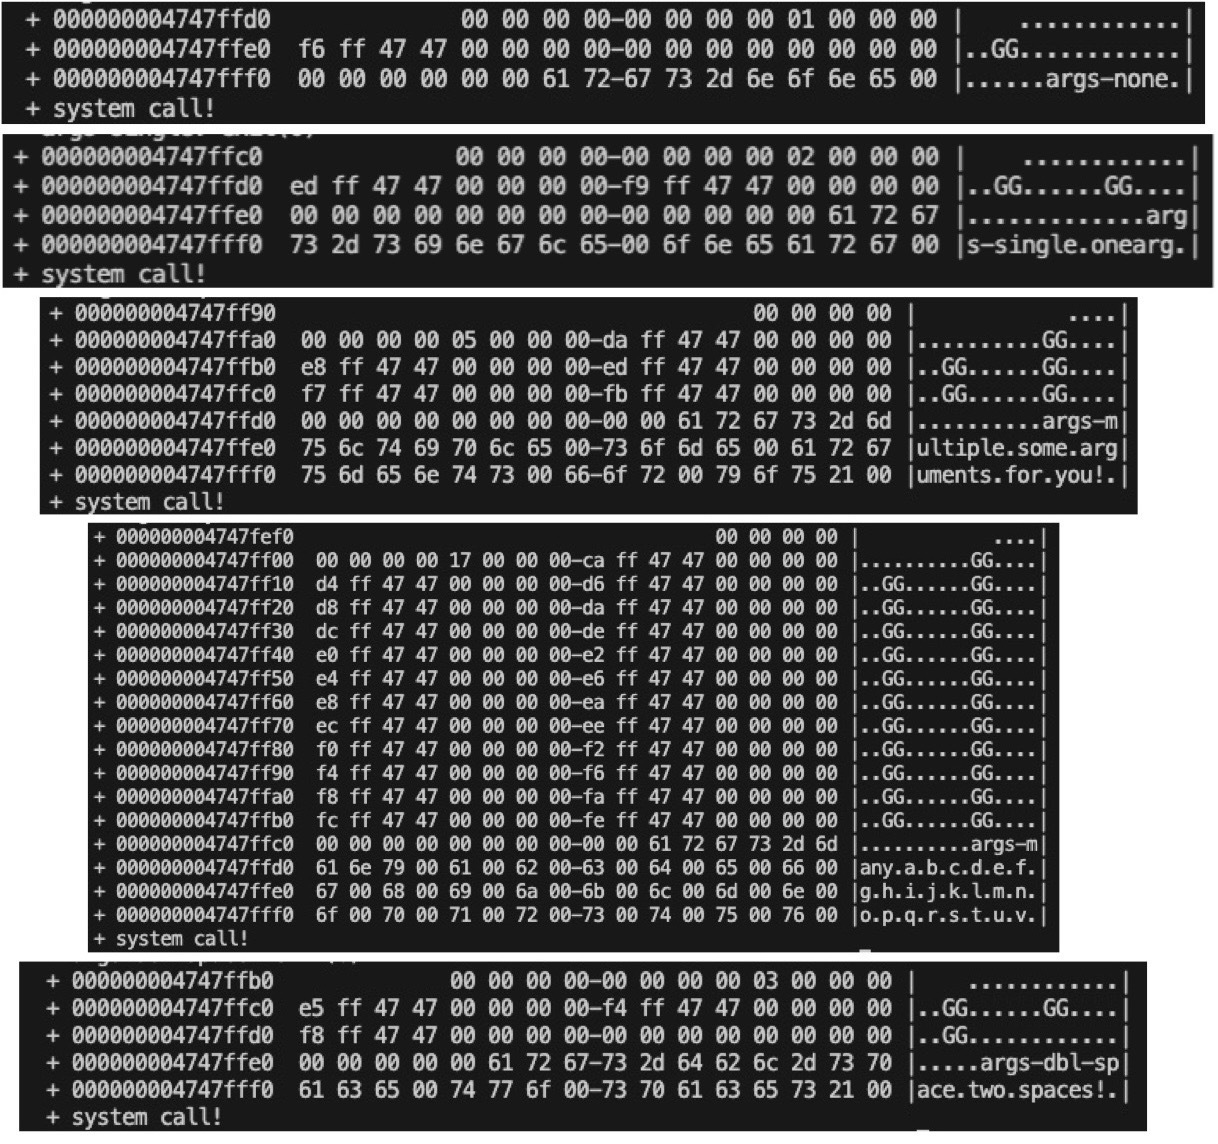
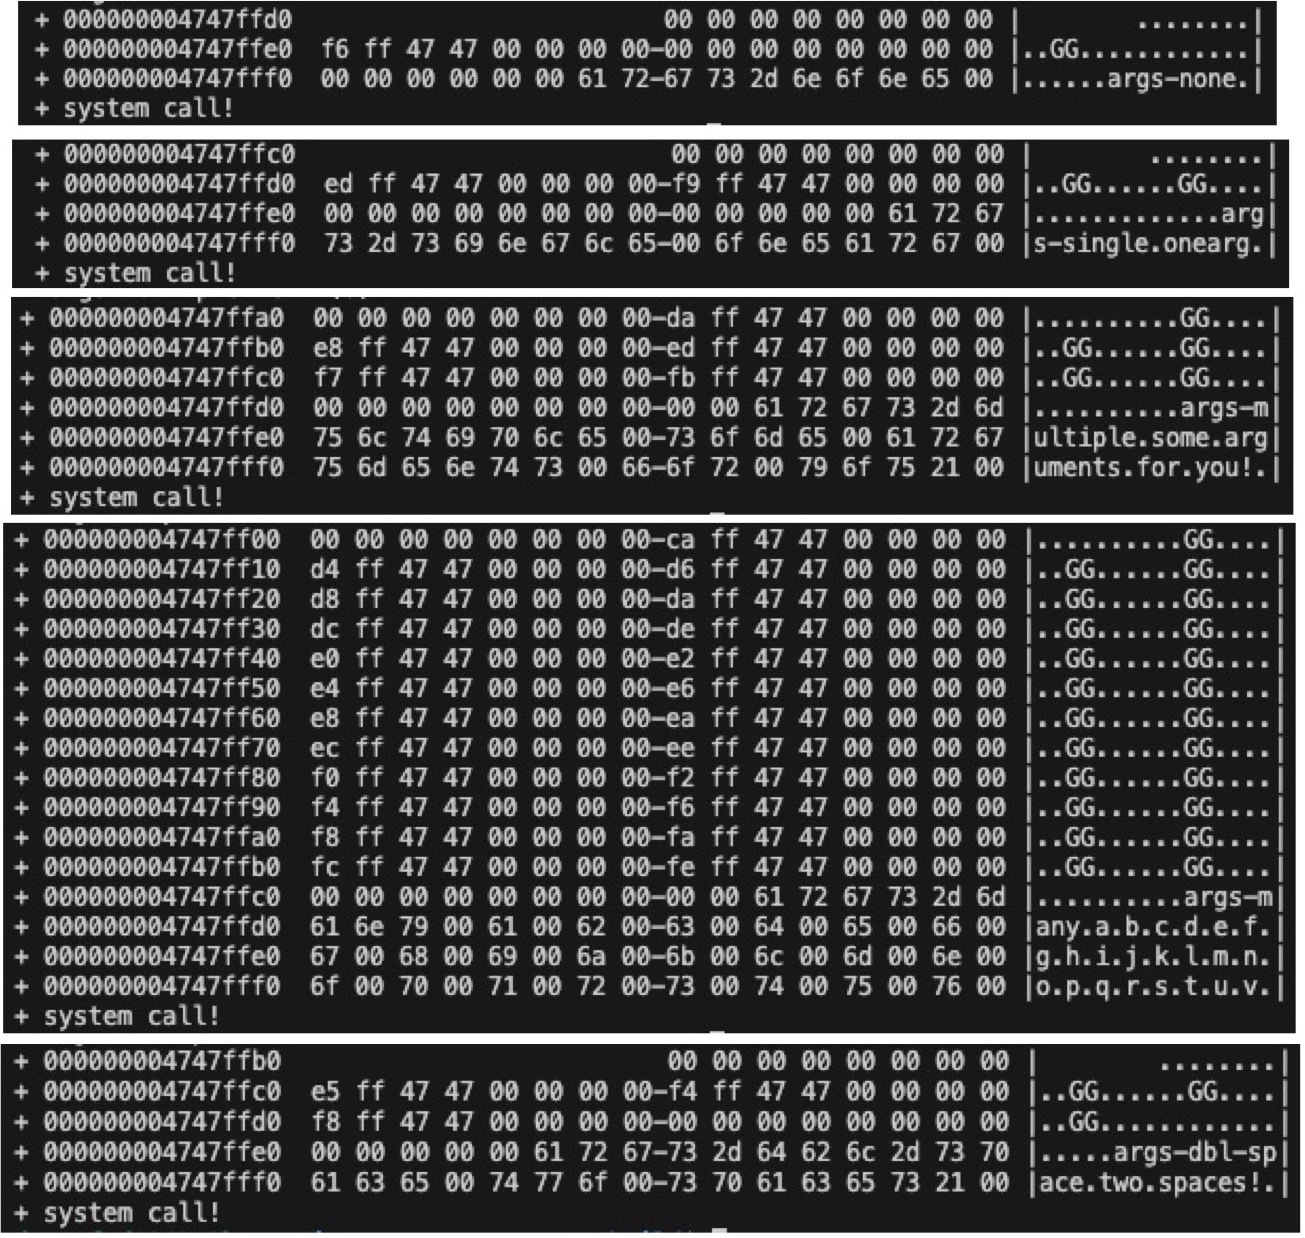
Fix: 오류 해결한 부분 수정
구현을 하던 중에 argument passing에 관해 잘못 구현한 부분이 있어 다시 고친 후
테스트까지 잘 돌아가는걸 확인한 후 블로그 글에도 수정해두었다.

diff --git a/_posts/2025-05-21-pintos_project2_passing_implement.md b/_posts/2025-05-21-pintos_project2_passing_implement.md
@@ -258,18 +258,14 @@ void argument_stack(char **argv, int argc, struct intr_frame *if_)
   // 4. argv 주소 (char **argv) 저장
   char **argv_addr = (char **)rsp;
 
-  // 5. argc 저장
-  rsp -= sizeof(int);
-  *(int *)rsp = argc;
-
-  // 6. return address (dummy 0)
+  // 5. return address (dummy 0) - fake address
   rsp -= sizeof(void *);
   *(void **)rsp = 0;
 
-  // 7. 최종 RSP 갱신
+  // 6. 최종 RSP 갱신
   if_->rsp = (uint64_t)rsp;
 
-  // 8. rdi = argc, rsi = argv 주소 설정
+  // 7. rdi = argc, rsi = argv 주소 설정
   if_->R.rdi = argc;
   if_->R.rsi = (uint64_t)argv_addr;
 }
@@ -330,6 +326,24 @@ void thread_test_preemption(void)
 현재 CPU가 인터럽트 컨텍스트일때, `thread_yield()`를 호출하면 시스템이 불안정해질 수 있기 때문이다.
 
 테스트 중에 이 부분이 없다면 스케줄링 요청이 잘못 발생하여 정상 실행이 되지 않기에 추가해주어야한다.
+
+```c
+// userprog/process.c/process_create_initd(const char *)
+tid_t process_create_initd(const char *file_name)
+{
+  //thread_create() 함수 호출 전에 file_name 세팅
+  char *save_ptr;
+  file_name = strtok_r(file_name, " ", &save_ptr);
+
+  /* Create a new thread to execute FILE_NAME. */
+  tid = thread_create(file_name, PRI_DEFAULT, initd, fn_copy);
+}
+```
+
+`file_name`은 파일 이름으로 인식되는 첫 단어가 필요하다.  
+`strtok_r()`로 분리를 해주지않으면 실행 파일을 제대로 찾지 못한다.  
+그러므로 `thread_create()`함수를 호출하기 전에 첫 번째 인자 `file_name`에  
+옳게 들어갈 수 있도록 분리한다!
 
 ---
 
